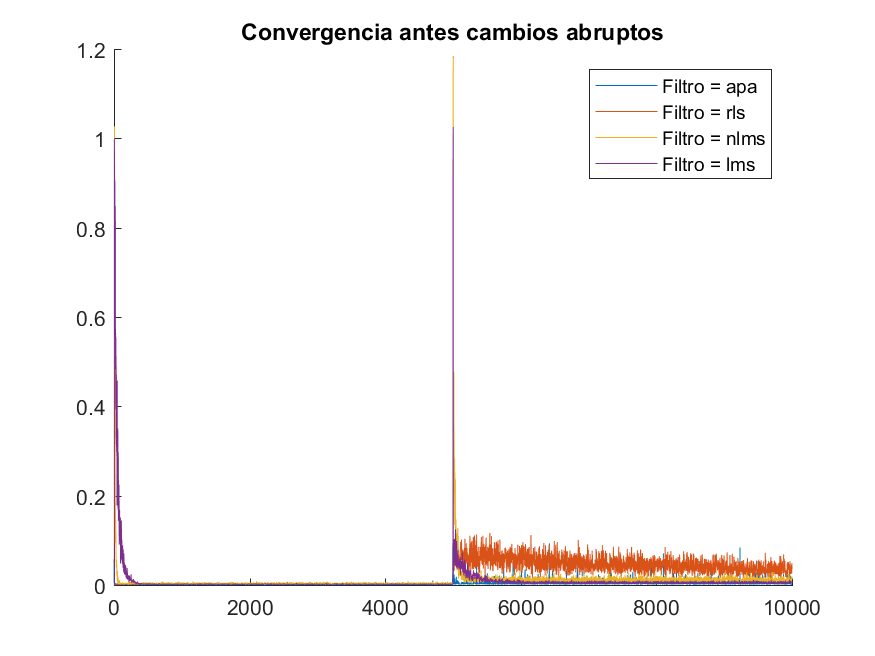
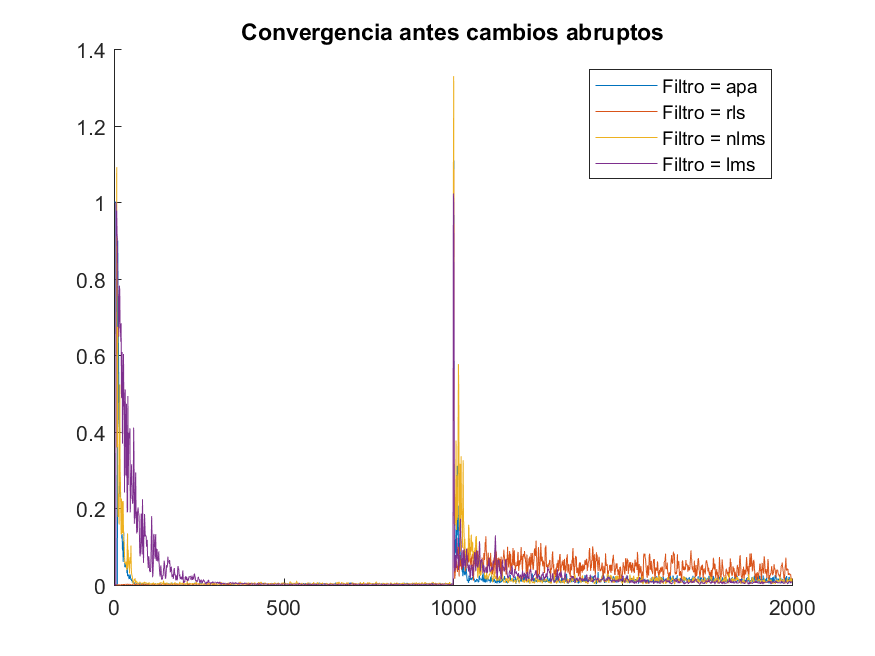
.Update Ex4 and APAFunc.m

Changed region(s): [[0.0926, 0.122, 0.9566, 0.9451], [0.0926, 0.1829, 0.1234, 0.2134], [0.0926, 0.061, 0.1234, 0.0915]]

diff --git a/ex4.m b/ex4.m
@@ -1,3 +1,6 @@
+close all
+clear all
+clc
 
 item='2';
 %%%%%%%%%%%%%%%%%%%%%%%%%%%%%%%%%%%%%%%%%%%%%%%%%%%%%%%%%%%%%%%%%%%%%%%%%%%
@@ -5,9 +8,7 @@ item='2';
 %%%%%%%%%%%%%%%%%%%%%%%%%%%%%%%%%%%%%%%%%%%%%%%%%%%%%%%%%%%%%%%%%%%%%%%%%%
 %% Rapidez de Convergencia
 if(strcmp(item,'1'))
-close all
-clear all
-clc
+
 mu = 0.1;
 M = 11;
 r = 5;
@@ -20,7 +21,7 @@ num_experiments = 20;
 LMSBuff={'lms',[0.02,0,0]};
 NLMSBuff={'nlms',[1,0,0]};
 RLSBuff={'rls',[0,1,0]};
-APABuff={'apa',[1,0,10]};
+APABuff={'apa',[0.5,0,10]};
 FilterBuffer={LMSBuff,NLMSBuff,RLSBuff,APABuff};
 
 figure();
@@ -34,8 +35,9 @@ for j=1 : length(FilterBuffer)
     J_estimation = zeros(N, num_experiments);
     for i=1 : num_experiments
         [d, u] = build_signals(r, N, L, W, noise_variance); 
-        [e, y, w_eq] = adapFilterfunc(filterType, u, d, M, params);
+        [e, y, w, w_n] = adapFilterfunc(filterType, u, d, M, params);
         J_estimation(:, i) = abs(e).^2;
+       
     end
     J_estimation = mean(J_estimation, 2);
     plot(J_estimation);
@@ -43,8 +45,8 @@ for j=1 : length(FilterBuffer)
 end
 title('Estimacion curva de aprendizaje para distintos algoritmos');
 legend(legends)
-ylim([0 1]);
-xlim([0 1000]);
+ylim([0 10]);
+xlim([0 2000]);
 print('JForAllFilters','-dpng')
 
 end
@@ -52,23 +54,20 @@ end
 %% Rapidez ante cambios
 if(strcmp(item,'2'))
 
-close all; 
-clear all; 
-
 M = 11;
 mu = 0.0075;
 r = 5;
-N = 10000;
+N = 2000;
 L = 5;
 W1 = 2.9;
 W2 = 3.4;
 noise_variance = 0.001;
-num_experiments = 20;
+num_experiments = 10;
 legends=[];
 LMSBuff={'lms',[0.02,0,0]};
 NLMSBuff={'nlms',[1,0,0]};
 RLSBuff={'rls',[0,1,0]};
-APABuff={'apa',[1,0,10]};
+APABuff={'apa',[0.1,0,10]};
 FilterBuffer={APABuff,RLSBuff,NLMSBuff,LMSBuff};
 
 for j=1 : length(FilterBuffer)
@@ -83,7 +82,11 @@ for j=1 : length(FilterBuffer)
         u = [u1 ; u2];
         d = [d1 ; d2];
         [e, y, w_eq, w_n]= adapFilterfunc(filterType, u, d, M, params);
-        J_estimation(:, i) = abs(e).^2;
+        if strcmp(filterType,'apa')
+            J_estimation(:, i) = abs(e).^2;
+        else
+            J_estimation(:, i) = abs(e).^2;
+        end
     end
     J_estimationAll(:,j) =  mean(J_estimation, 2);
     legends{j} = sprintf('Filtro = %s',filterType);

diff --git a/APAfunc.m b/APAfunc.m
@@ -4,7 +4,7 @@ function [e, y, w, w_n]=APAfunc(u, d, M, mu, O)
 %M adaptative filter order
 %O Proyection Order
 
-    epsilon=0.01/O;
+    epsilon=1;
 
     N=length(u);
     w=zeros(M,1);
@@ -19,7 +19,20 @@ function [e, y, w, w_n]=APAfunc(u, d, M, mu, O)
         Y=X*w;
         w_n(:, k) = w;
         w=w+mu*X'*inv(epsilon*eye(O,O)+X*X')*E;
-        e(k)=mean(E);
-        y(k)=mean(Y);
+        
+        if k==1
+            %Em(k,:)=E;
+            aux=E;
+        else
+            %Em(:,end+1)=0;
+            %Em(k,:)=[zeros(k-1,1);E]';
+            aux(end+1)=E(1);
+        end
+        %e(k)=mean(E);
+        y(k)=mean(Y); 
     end
+        e=aux';
+%         for i=1:length(Em)
+%             %e(i)=sum(Em(:,i).^2)/2000;   
+%         end
 end

diff --git a/getApaMatrix.m b/getApaMatrix.m
@@ -1,6 +1,7 @@
 function X=getApaMatrix(u,k,M,O)
-
-U=u((k-1)+M+(O-1):-1:1+(k-1));
+% U=[u(n+M+O-1) u(n+M+O-2) ... u(n) u(n+1).... u(N) ]
+% Se agarra una ventana de M+O-1 valores
+U=u((k-1)+M+O-1:-1:1+(k-1));
 for i=1:O
     for j=1:M    
     X(i,j)=U(i+j-1);
